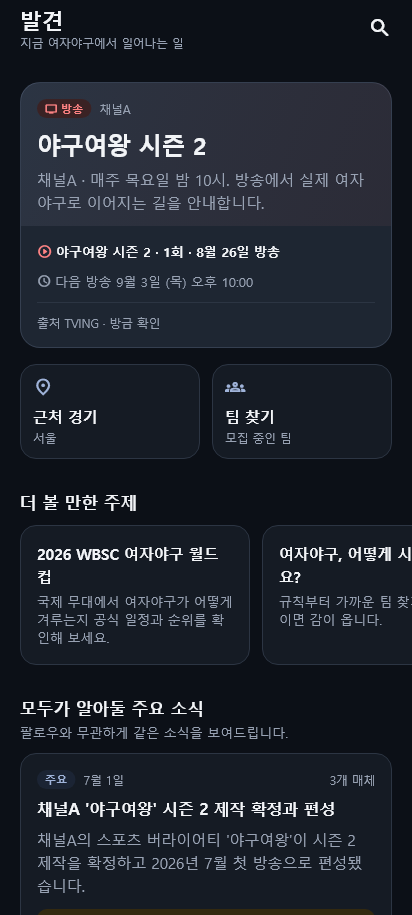
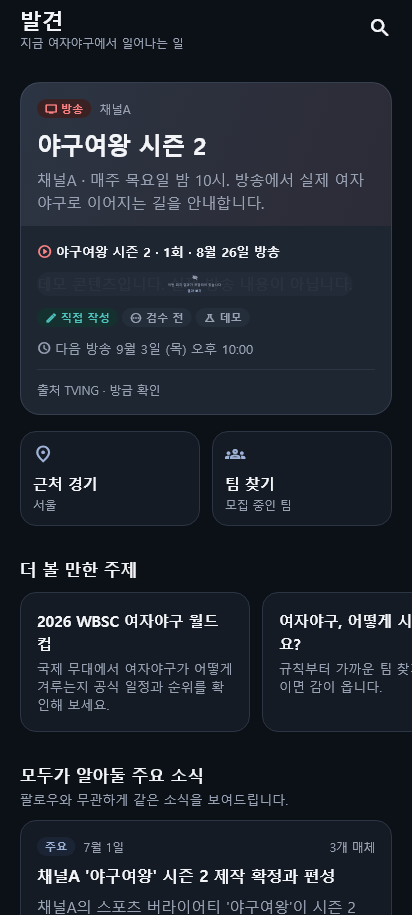
Make the publish gate match the validator, and apply it everywhere
`ContentMeta.isPublishable` read `reviewed || template`, so hand-written text
was withheld as if a model had produced it. Every record in the shipped seed is
`manual` + `pending` — all eleven — which means that rule hid whatever it was
applied to.

It was applied to exactly one of the ten content types that carry a
`ContentMeta`: the episode recap, at content_repository.dart:196. So the
broadcast recap vanished while three featured topics, three beginner guides and
a story cluster with identical metadata rendered fine. The difference was not a
policy, it was which call site happened to have the check. That single dark
section is what docs/improvement-prompt.md D2 recorded as "입문자 홈이 비어
보인다".

`scripts/validate/validate_data.py:_check_summary` already states the real
policy, and it is the thing that actually gates publication: an `aiAssisted`
summary needs a human review, `rejected` is refused outright, `manual` and
`template` pass. The app was the outlier, so the app moves.

- `isPublishable` now mirrors the validator, including `rejected`, which the
  old expression let through whenever review status said reviewed.
- The gate is applied at all seven read paths, not one: the featured list and a
  featured topic fetched by id (otherwise knowing an address is enough to see
  withheld content), story clusters, guides by list and by anchor, and the
  clips, people and guide resolved inside a featured item.
[…]

diff --git a/test/widget/screens_test.dart b/test/widget/screens_test.dart
@@ -1,3 +1,5 @@
+import 'dart:convert';
+
 import 'package:flutter/material.dart';
 import 'package:flutter_test/flutter_test.dart';
 import 'package:w_baseball/app/router.dart';
@@ -78,11 +80,40 @@ void main() {
       expect(find.textContaining('데모'), findsWidgets);
     });
 
-    testWidgets('검수되지 않은 리캡은 아예 보여주지 않는다', (tester) async {
-      // The other half of the same rule. A generator cannot certify its own
-      // output, so seed content sits at `pending` — and pending content is
-      // withheld rather than shown with a reassuring badge.
-      final app = await buildTestApp();
+    testWidgets('검수되지 않은 AI 리캡은 아예 보여주지 않는다', (tester) async {
+      // The rule the validator enforces before publication, enforced again at
+      // read time: a model-written summary needs a person to sign off, and
+      // until then it is withheld rather than shown with a reassuring badge.
+      //
+      // Retagging the seed's own recap is deliberate. Asserting on a
+      // hand-built record would prove the getter works; this proves the record
+      // actually travels through sync, storage, and the repository gate and
+      // still does not reach the screen.
+      // Only the recap is retagged. A blanket string replace would also
+      // demote the featured topic that carries it, and the card would then be
+      // missing because its container was withheld — the assertion would pass
+      // without the recap gate ever being consulted.
+      final docs = Map<String, String>.from(loadSeedFromDisk());
+      const path = 'content/discover.json';
+      final decoded = jsonDecode(docs[path]!) as Map<String, dynamic>;
+      var retagged = 0;
+      final bucket = (decoded['items'] as List).first as Map<String, dynamic>;
+      for (final program in bucket['programs'] as List) {
+        for (final season in (program as Map)['seasons'] as List) {
+          for (final episode in (season as Map)['episodes'] as List) {
+            final recap = (episode as Map)['recap'] as Map<String, dynamic>?;
+            if (recap == null) continue;
+            recap['summaryMethod'] = 'aiAssisted';
+            recap['reviewStatus'] = 'pending';
+            recap['generatedAt'] = '2026-08-30T00:00:00Z';
+            retagged++;
+          }
+        }
+      }
+      expect(retagged, greaterThan(0), reason: '시드에 리캡이 없으면 이 테스트는 무의미합니다');
+      docs[path] = jsonEncode(decoded);
+
+      final app = await buildTestApp(documents: docs);
       addTearDown(app.dispose);
 
       await pumpScreen(tester, app, const HomeScreen());
@@ -91,8 +122,23 @@ void main() {
       expect(
         find.byType(ProgramRecapCard),
         findsNothing,
-        reason: '검수 전 리캡이 화면에 나오면 안 됩니다',
+        reason: '검수 전 AI 리캡이 화면에 나오면 안 됩니다',
       );
+    });
+
+    testWidgets('사람이 쓴 리캡은 검수 전이라도 보여준다', (tester) async {
+      // The counterpart, and the reason the rule had to be narrowed. Every
+      // record in the shipped seed is `manual` + `pending`, so a gate keyed on
+      // review status alone hid hand-written text as if a model had produced
+      // it — and because it was applied at one of ten content types, this one
+      // section went dark while nine identical records rendered fine.
+      final app = await buildTestApp();
+      addTearDown(app.dispose);
+
+      await pumpScreen(tester, app, const HomeScreen());
+      await settle(tester);
+
+      expect(find.byType(ProgramRecapCard), findsOneWidget);
     });
 
     testWidgets('갱신 상태를 앱바에 표시한다', (tester) async {

diff --git a/lib/data/repositories/content_repository.dart b/lib/data/repositories/content_repository.dart
@@ -108,7 +108,10 @@ class DriftContentRepository implements ContentRepository {
     return select.watch().asyncMap((rows) async {
       final now = _clock().toUtc();
       final active =
-          rows.map((r) => r.toDomain()).where((t) => t.isActiveAt(now)).toList()
+          rows
+              .map((r) => r.toDomain())
+              .where((t) => t.isActiveAt(now) && t.meta.isPublishable)
+              .toList()
             ..sort(
               (a, b) => a.effectivePriority.compareTo(b.effectivePriority),
             );
@@ -127,7 +130,12 @@ class DriftContentRepository implements ContentRepository {
       ..where((t) => t.id.equals(topicId));
     return select.watchSingleOrNull().asyncMap((row) async {
       if (row == null) return null;
-      return _resolve(row.toDomain());
+      final topic = row.toDomain();
+      // A topic reachable by id — a deep link, a saved item — has to pass the
+      // same check the list does. Otherwise the way to see withheld content is
+      // simply to know its address.
+      if (!topic.meta.isPublishable) return null;
+      return _resolve(topic);
     });
   }
 
@@ -207,6 +215,7 @@ class DriftContentRepository implements ContentRepository {
                         ..limit(3))
                       .get())
                   .map((r) => r.toDomain())
+                  .where((p) => p.meta.isPublishable)
                   .toList(growable: false);
         }
 
@@ -221,6 +230,7 @@ class DriftContentRepository implements ContentRepository {
                       ..limit(6))
                     .get())
                 .map((r) => r.toDomain())
+                .where((c) => c.meta.isPublishable)
                 .toList(growable: false);
 
         links = await linksFrom(
@@ -246,7 +256,10 @@ class DriftContentRepository implements ContentRepository {
       final row = await (db.select(
         db.beginnerGuides,
       )..where((t) => t.id.equals(topic.guideId!))).getSingleOrNull();
-      guide = row?.toDomain();
+      final candidate = row?.toDomain();
+      guide = candidate != null && candidate.meta.isPublishable
+          ? candidate
+          : null;
     }
     if (topic.competitionId != null) {
       final row = await (db.select(
@@ -368,6 +381,7 @@ class DriftContentRepository implements ContentRepository {
             links: linksByCluster[r.id] ?? const <ContentEntityLink>[],
           ),
         )
+        .where((c) => c.meta.isPublishable)
         .toList(growable: false);
   }
 
@@ -386,7 +400,10 @@ class DriftContentRepository implements ContentRepository {
     }
     select.orderBy([(t) => OrderingTerm(expression: t.title)]);
     return select.watch().map(
-      (rows) => rows.map((r) => r.toDomain()).toList(growable: false),
+      (rows) => rows
+          .map((r) => r.toDomain())
+          .where((g) => g.meta.isPublishable)
+          .toList(growable: false),
     );
   }
 
@@ -399,7 +416,8 @@ class DriftContentRepository implements ContentRepository {
               )
               ..limit(1))
             .getSingleOrNull();
-    return row?.toDomain();
+    final guide = row?.toDomain();
+    return guide != null && guide.meta.isPublishable ? guide : null;
   }
 
   @override

diff --git a/lib/data/models/content.dart b/lib/data/models/content.dart
@@ -123,12 +123,26 @@ class ContentMeta {
 
   bool get isDemo => provenance.isDemo;
 
-  /// Automated summaries are only publishable after review unless the
-  /// `autoPublishTemplateSummaries` flag is on for template summaries, which
-  /// cannot invent facts. Enforced again in `scripts/validate`.
-  bool get isPublishable =>
-      reviewStatus == ReviewStatus.reviewed ||
-      summaryMethod == SummaryMethod.template;
+  /// Whether this record may be shown.
+  ///
+  /// Deliberately identical to `_check_summary` in
+  /// `scripts/validate/validate_data.py`, which is what actually gates
+  /// publication: an `aiAssisted` summary needs a human review, a `template`
+  /// summary is generated from structured fields and cannot invent anything,
+  /// and `manual` text already had a person write it — that person *is* the
+  /// human in the loop. A record a reviewer explicitly rejected is never shown,
+  /// whatever produced it.
+  ///
+  /// It used to read `reviewed || template`, which withheld hand-written text
+  /// as if a model had produced it. Every record in the shipped seed is
+  /// `manual` + `pending`, so that rule hid whatever it was applied to — and it
+  /// was applied at exactly one of the ten content types, which is why one
+  /// section went dark while nine identical records rendered fine.
+  bool get isPublishable => switch (reviewStatus) {
+    ReviewStatus.rejected => false,
+    ReviewStatus.reviewed => true,
+    ReviewStatus.pending => summaryMethod != SummaryMethod.aiAssisted,
+  };
 }
 
 /// The rotating "what should lead the app right now" slot.

diff --git a/docs/fix-backlog.md b/docs/fix-backlog.md
@@ -302,6 +302,91 @@
 
 ---
 
+## A — 감사 이후 발견 (기본 비활성·미실행 경로 추적 중)
+
+감사 보고서 제출 이후, "설정으로만 켜지는 코드"와 "테스트가 한 번도 임포트하지
+않는 파일"을 훑다가 나온 것들입니다. 넷 다 앱을 실행해서는 보이지 않는 종류라,
+발견 경위를 같이 적어 둡니다.
+
+### [A-1] [완료] 골든 스크린샷이 실행 시각에 따라 달라진다
+
+- **실제 증거**: UI 변경이 없는데 골든 10장이 바뀜. 유일한 차이는 한 줄 —
+  `출처 TVING · 방금 확인` → `출처 TVING · 5시간 전 확인`.
+- **원인**: `nowProvider` 의 주석은 "위젯이 `DateTime.now()` 대신 이걸 읽는다"
+  고 적혀 있었지만, **읽는 위젯이 하나도 없었습니다.** 화면 20곳 전부
+  `DateTime.now().toUtc()` 직접 호출. 하니스가 provider 와 DB 시각을 고정해도
+  화면에는 닿지 않았습니다.
+- **사용자에게 미치는 영향**: 없음(앱 동작은 정상). 대신 **리뷰 산출물이
+  쓸모없어집니다** — 진짜 UI 회귀와 "오후가 됐다"가 같은 diff로 보입니다.
+- **직전 판단 정정**: 이전에 "골든은 결정론적"이라고 적었는데, 재생성과
+  재검사가 몇 분 사이라 같은 상대시간 구간에 떨어졌을 뿐이었습니다.
+- **수정**: `clockProvider` (값이 아니라 `DateTime Function()` — 캐시된 값이면
+  "3분 전"이 한 시간 뒤에도 "3분 전"이 됨). 화면 20곳 + `DriftTeamRepository`
+  (다음 3경기 경계) + 하니스의 시드 월 범위.
+- **수정 후 검증**: `test/audit/clock_discipline_test.dart` — `lib/features`
+  아래 `DateTime.now()` 호출 시 실패. 일부러 되돌려 실패 확인.
+- **부수**: `test/screenshots/failures/` 가 추적되고 있어 무관한 diff가 UI
+  변경처럼 보였습니다. 추적 해제 + `.gitignore`.
+
+### [A-2] [완료] 만들지 않은 어댑터의 실패를 "권한 없음"으로 말한다
+
+- **실제 증거**: `WB_API_TRANSPORT=graphql` 은 지원되는 설정값이고,
+  `FutureGraphqlDataSource.isEnabled` 가 참이 된 뒤 `fetchGames` 가
+  `unauthorized` 로 던짐 → 화면에는 `데이터 접근 권한이 없습니다`.
+  `PermissionGatedAdapter.notImplemented()` 도 같은 모양(`forbidden`).
+- **사용자에게 미치는 영향**: 우리가 안 만든 것을 두고 사용자가 출처 쪽에
+  문의하게 됩니다. 책임을 반대로 돌리는 문구입니다.
+- **수정**: `SyncFailureKind.notImplemented` 추가(재시도 대상 아님 — 기다린다고
+  코드가 생기지 않음), 양쪽에 적용.
+- **수정 후 검증**: `test/unit/gated_adapters_test.dart` (신규).
+  **이 파일에는 테스트가 0건이었습니다.** "이용허락 없는 출처는 기본 비활성"
+  이라는 이 프로젝트의 상시 제약이 주석과 기본 인자값만으로 지탱되고 있었고,
+  누가 하나 뒤집어도 실패하는 것이 없었습니다.
+
+### [A-3] [완료] 예보 신뢰도가 남은 기간과 무관하게 굳는다
+
+- **실제 증거**: `DriftWeatherRepository._withHorizon` 이 저장된 horizon 과
+  현재 horizon 이 같으면 행을 그대로 반환. 그런데 신뢰도는 **중기예보 안에서**
+  D+6 을 경계로 바뀝니다.
+- **사용자에게 미치는 영향**: D+5 에 저장된 `보통` 이 D+9 에도 `보통` 으로
+  표시됩니다 — 자기 규칙보다 예보를 **더 믿을 만하게** 말하는 방향이고, 사람이
+  그걸 보고 일정을 잡습니다. 반대 방향(D+8 `낮음` → D+4 에도 `낮음`)도 발생.
+  둘 다 경기 상세와 홈 날씨 카드에 노출됩니다.
+- **확인 방법**: 옛 코드를 되살려 두 케이스 모두 재현 확인.
+- **수정**: 재작성을 무조건 수행. horizon 이 같다는 사실은 파생 필드가 여전히
+  참인지에 대해 아무것도 말해주지 않습니다.
+- **수정 후 검증**: `test/unit/weather_repository_test.dart` (신규).
+  **이 파일에도 테스트가 0건이었습니다** — "예보에 없는 값을 만들어내지
+  않는다"는 이 클래스의 존재 이유 전체가 자기 주석에 기대고 있었습니다.
+
+### [A-4] [완료] 게시 가능 규칙이 검증 스크립트와 다르고, 열 개 중 하나에만 걸려 있다
+
+- **실제 증거**:
+  - `ContentMeta.isPublishable` = `reviewed || template`. 그런데 시드 11건은
+    전부 `manual` + `pending` 이라 **손으로 쓴 글까지** 보류 대상이 됩니다.
+  - `scripts/validate/validate_data.py:_check_summary` 는 이미 다른 규칙을
+    씁니다 — `aiAssisted` 만 검수 필요, `rejected` 는 금지, `manual` 은 허용.
+    **출시를 실제로 막는 쪽은 검증 스크립트이므로, 이탈한 것은 앱입니다.**
+  - 프로덕션 호출 지점이 **한 곳뿐**(`content_repository.dart:196`). 그래서
+    방송 리캡 하나만 화면에서 빠지고, 같은 `manual`+`pending` 인 화제 주제 3건과
+    가이드 3건과 스토리 묶음은 그대로 표시됐습니다. 차이는 규칙이 아니라
+    "어느 호출 지점에 체크가 붙어 있었나" 였습니다.
+- **사용자에게 미치는 영향**: 두 방향 모두. 한쪽에서는 정직하게 라벨링된 사람
+  작성 콘텐츠가 통째로 사라지고(입문자 홈이 비어 보이던 D2 의 실제 원인),
+  다른 쪽에서는 검수 전 AI 요약이 들어오면 아홉 개 경로로 그냥 나갑니다.
+- **수정**: `isPublishable` 을 검증 스크립트와 동일하게 — `rejected` 는 항상
+  차단, `aiAssisted` 는 검수 필요, `manual`·`template` 은 통과. 그리고 게이트를
+  **읽기 경로 7곳 전부**에 적용(목록/단건/딥링크 대상 포함 — id 를 아는 것만으로
+  보류 콘텐츠를 볼 수 있으면 게이트가 아닙니다).
+- **수정 후 검증**: `screens_test` 두 건. 시드의 리캡 노드만 `aiAssisted` +
+  `pending` 으로 다시 태깅해 동기화·저장·저장소 게이트를 실제로 통과시킨 뒤
+  화면에 닿지 않는 것을 확인하고, 사람이 쓴 리캡은 검수 전이라도 표시되는 것을
+  확인합니다. 문자열 일괄 치환이 아니라 리캡만 바꾼 이유는, 일괄 치환이면 상위
+  화제 카드까지 보류되어 **게이트를 한 번도 거치지 않고도 테스트가 통과**하기
+  때문입니다.
+
+---
+
 ## P3 — 향후
 
 - **[P3-1] 실기기·에뮬레이터 검증 체계** — 현재 런타임 검증 0회. 최소 1대의
